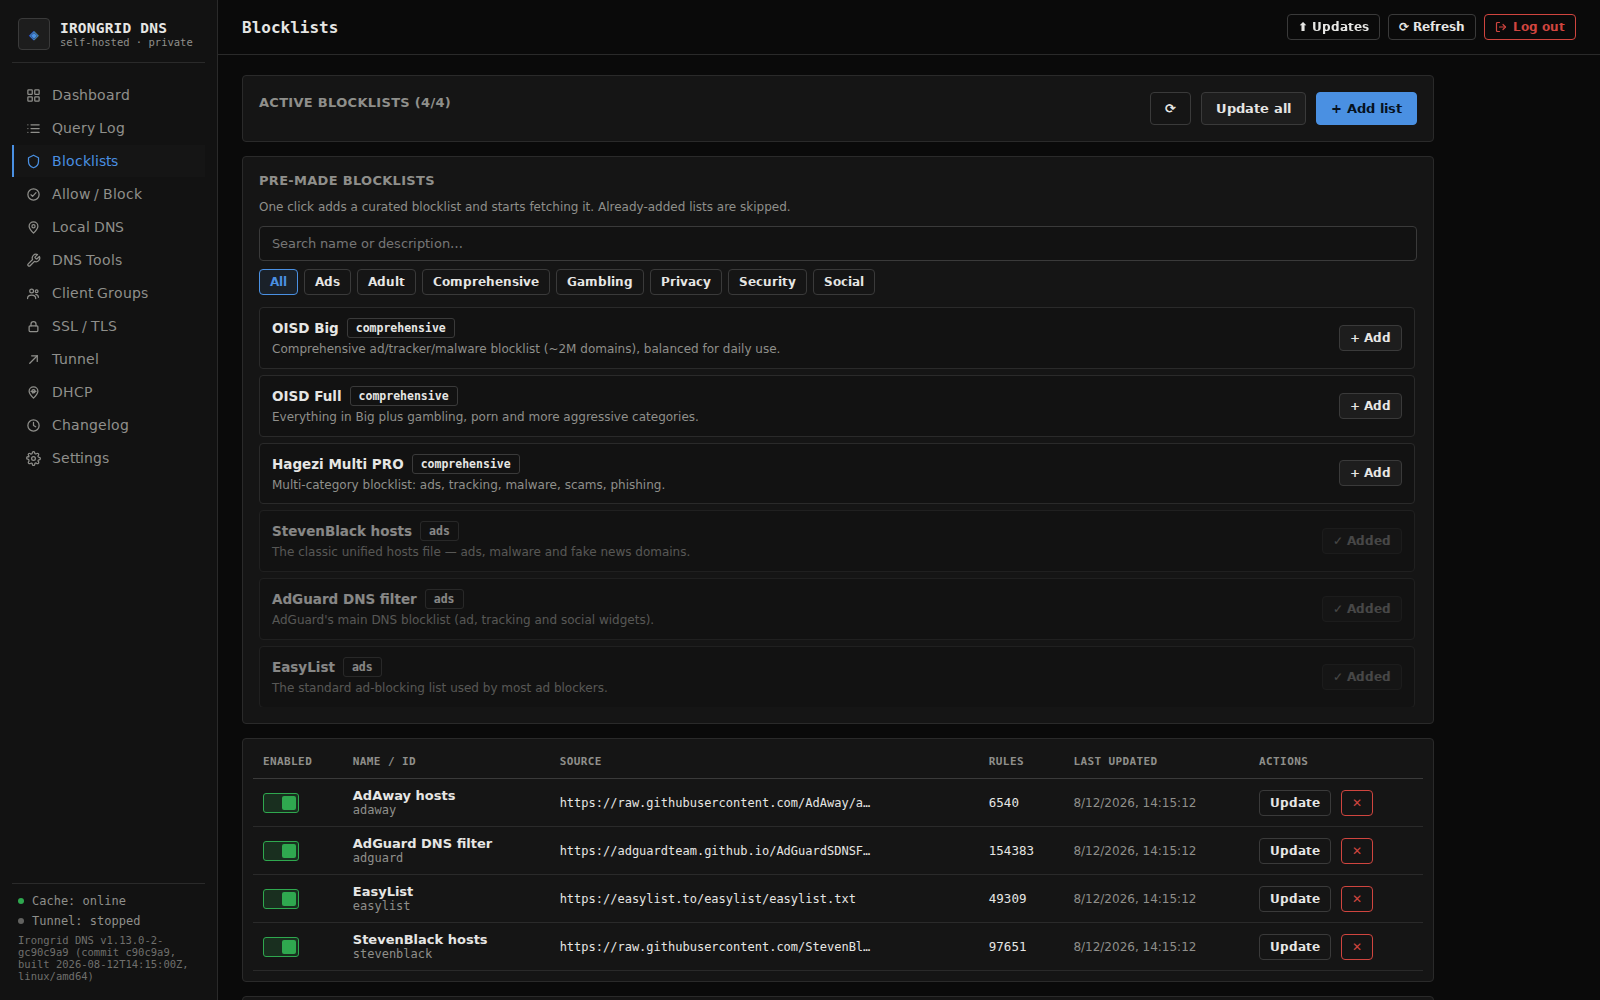
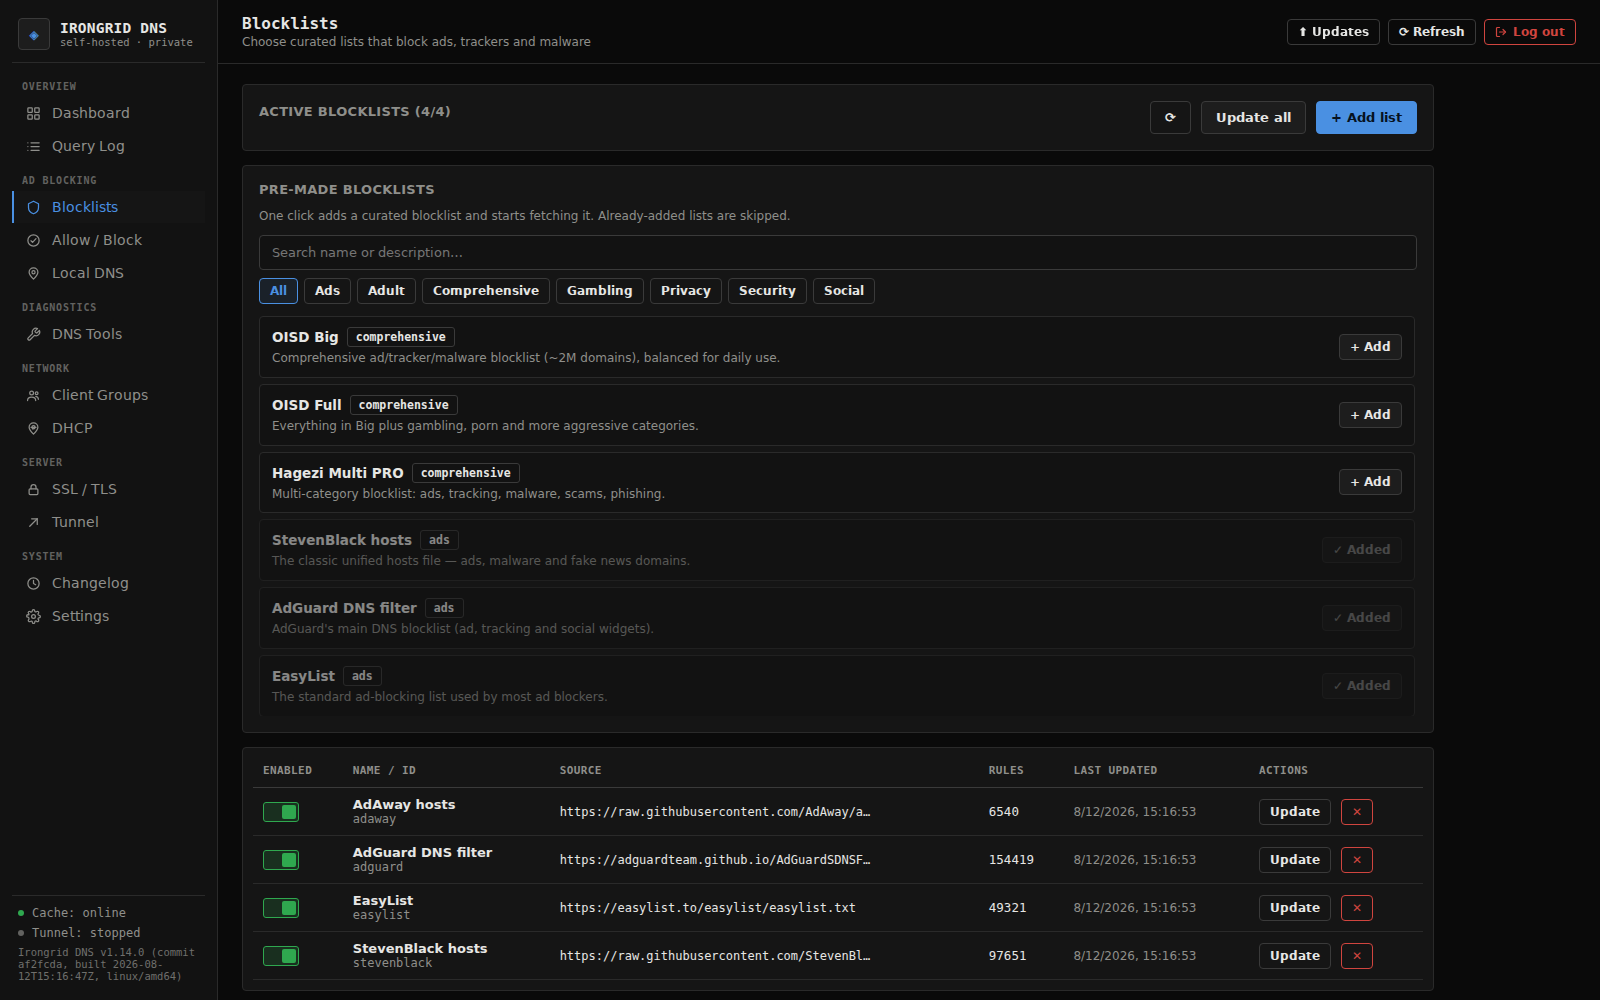
docs: refresh screenshots against the v1.14.0 beginner-friendly UI
Re-captured all six dashboard screenshots from the live server (now
deployed at v1.14.0): the sidebar nav is grouped into labelled sections,
views carry plain-English subtitles, the dashboard shows the first-run
Getting started checklist, and Settings has a jump-nav over its 17
sections. Updated the caption text to match.

diff --git a/README.md b/README.md
@@ -45,7 +45,7 @@ commercial ad-blocking DNS with sub-millisecond local responses.
 
 | **Sign in** | **Dashboard** |
 |---|---|
-| ![Irongrid DNS sign-in page](assets/screenshots/01-login.png) | ![Irongrid DNS dashboard: live stats, top clients, blocked domains and 24-hour sparkline](assets/screenshots/02-dashboard.png) |
+| ![Irongrid DNS sign-in page](assets/screenshots/01-login.png) | ![Irongrid DNS dashboard: live stats, top clients, blocked domains, 24-hour sparkline and a first-run getting-started checklist](assets/screenshots/02-dashboard.png) |
 
 **Query log** — every allowed, blocked and cached request with client, reason, upstream and latency.
 
@@ -60,7 +60,7 @@ hostnames that resolve in the local DNS.
 
 ![Irongrid DNS DHCP server](assets/screenshots/05-dhcp.png)
 
-**Settings** — live config editing, including one-click **backup & restore**.
+**Settings** — live config editing with a jump-nav to every section, including one-click **backup & restore**.
 
 ![Irongrid DNS settings and backup/restore](assets/screenshots/06-settings.png)
 
